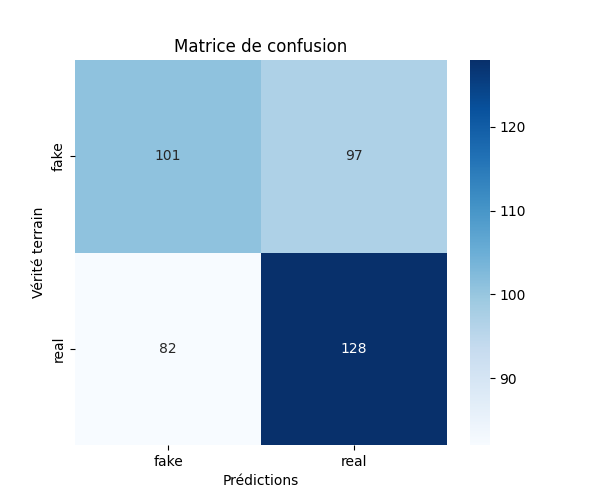
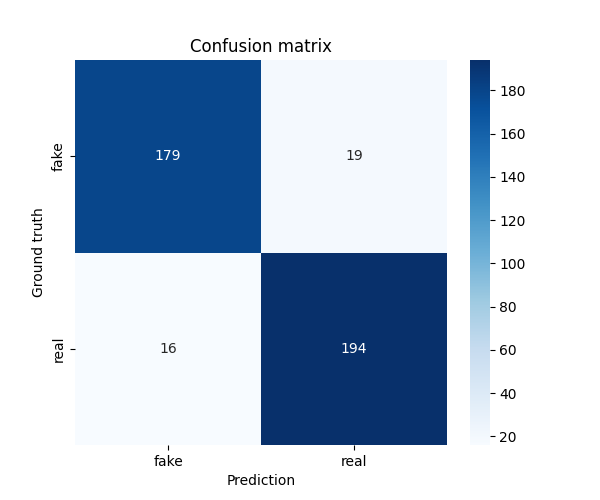
Correct evaluation problem

diff --git a/app/app.py b/app/app.py
@@ -15,11 +15,29 @@ app = Flask(__name__)
 
 MODEL_PATH = os.path.join(os.path.dirname(os.path.dirname(__file__)), os.path.join('models', 'model.h5'))
 CLASS_NAMES = ["fake", "real"]
-upload_folder = './uploads'
-metrics_folder = "./metrics"
-os.makedirs(metrics_folder, exist_ok=True)
+UPLOAD_FOLDER = "./uploads"
+METRICS_FOLDER = "./metrics"
+os.makedirs(METRICS_FOLDER, exist_ok=True)
+#define model variable
+model = ''
+# Charge the data set
+train_data, test_data = load_dataset(os.path.join(os.path.dirname(os.path.dirname(__file__)), 'dataset'), img_size=(600, 600))
 
-def predict_image(model, image_path, img_size=(600, 600)):
+if os.path.exists(MODEL_PATH):
+    # Use the model if already existing
+    print(f"Existing model found in {MODEL_PATH}. Launching...")
+    model = load_model(MODEL_PATH)
+else:
+    # Create the model
+    model = create_model(input_shape=(600, 600, 3))
+
+    # Train the model
+    history = train_model(model, train_data, epochs=10)
+
+    # Evaluate the model
+    evaluate_model(model, test_data, history)
+
+def predict_image(image_path, img_size=(600, 600)):
     # Charge the image and preprocess
     img = load_img(image_path, target_size=img_size)
     img_array = img_to_array(img)  # Convert in numpy
@@ -32,23 +50,6 @@ def predict_image(model, image_path, img_size=(600, 600)):
     confidence = predictions[0][predicted_class]  # Confidence
 
     return CLASS_NAMES[predicted_class], confidence
-
-if os.path.exists(MODEL_PATH):
-    # Use the model if already existing
-    print(f"Existing model found in {MODEL_PATH}. Launching...")
-    model = load_model(MODEL_PATH)
-else:
-    # Charge the data set
-    train_data, test_data = load_dataset(os.path.join(os.path.dirname(os.path.dirname(__file__)), 'dataset'), img_size=(600, 600))
-
-    # Create the model
-    model = create_model(input_shape=(600, 600, 3))
-
-    # Train the model
-    history = train_model(model, train_data, epochs=10)
-
-    # Evaluate the model
-    evaluate_model(model, test_data, history)
 
 @app.route('/')
 def hello():
@@ -65,12 +66,12 @@ def upload_file():
         return jsonify({"error": "File with no name"}), 400
 
     # Save the file in the temp upload directory
-    os.makedirs(upload_folder, exist_ok=True)
-    file_path = os.path.join(upload_folder, file.filename)
+    os.makedirs(UPLOAD_FOLDER, exist_ok=True)
+    file_path = os.path.join(UPLOAD_FOLDER, file.filename)
     file.save(file_path)
 
     if os.path.exists(file_path):
-        predicted_class, confidence = predict_image(model, file_path)
+        predicted_class, confidence = predict_image(file_path)
         print(f"predicted class : {predicted_class} with confidence {confidence:.2f}")
         return jsonify({"message": f"File {file.filename} save with success. predicted class : {predicted_class} with confidence {confidence:.2f}."}), 200
     else:
@@ -80,16 +81,9 @@ def upload_file():
 @app.route('/evaluate', methods=['GET'])
 def evaluate_model_api():
     if not os.path.exists(MODEL_PATH):
-        return jsonify({"error": "Le modèle n'existe pas. Veuillez entraîner un modèle avant d'évaluer."}), 400
+        return jsonify({"error": "Model doesn't exist in the directory."}), 400
 
-    # Charger le modèle
-    model = load_model(MODEL_PATH)
-    print("Modèle chargé avec succès.")
-
-    # Charger les données de test
-    _, test_data = load_dataset(os.path.join(os.path.dirname(os.path.dirname(__file__)), 'dataset'))
-
-    # Séparer les images et les labels
+    # Separe labels
     X_test = []
     y_test = []
 
@@ -100,36 +94,36 @@ def evaluate_model_api():
     X_test = np.concatenate(X_test, axis=0)
     y_test = np.concatenate(y_test, axis=0)
 
-    # Faire les prédictions
+    # Perform prediction
     y_pred_probs = model.predict(X_test)
     y_pred = np.argmax(y_pred_probs, axis=1)
 
-    # Calcul des métriques
+    # Metrics calculation
     report = classification_report(y_test, y_pred, target_names=CLASS_NAMES, output_dict=True)
     confusion = confusion_matrix(y_test, y_pred)
 
-    # Sauvegarder les métriques en fichier JSON
-    report_path = os.path.join(metrics_folder, "classification_report.json")
+    # Save metrics into a JSON file
+    report_path = os.path.join(METRICS_FOLDER, "classification_report.json")
     with open(report_path, "w") as f:
         import json
         json.dump(report, f, indent=4)
 
-    print("Rapport de classification sauvegardé.")
+    print("Classification report saved.")
 
-    # Générer la matrice de confusion
+    # Generate confusion matrix
     plt.figure(figsize=(6, 5))
     sns.heatmap(confusion, annot=True, fmt="d", cmap="Blues", xticklabels=CLASS_NAMES, yticklabels=CLASS_NAMES)
-    plt.xlabel("Prédictions")
-    plt.ylabel("Vérité terrain")
-    plt.title("Matrice de confusion")
-    confusion_path = os.path.join(metrics_folder, "confusion_matrix.png")
+    plt.xlabel("Prediction")
+    plt.ylabel("Ground truth")
+    plt.title("Confusion matrix")
+    confusion_path = os.path.join(METRICS_FOLDER, "confusion_matrix.png")
     plt.savefig(confusion_path)
     plt.close()
 
-    print("Matrice de confusion générée et sauvegardée.")
+    print("Confusion matrix generated and saved.")
 
-    # Générer la courbe ROC
-    fpr, tpr, _ = roc_curve(y_test, y_pred_probs[:, 1])  # Probabilité de la classe "real"
+    # Generate ROC curve
+    fpr, tpr, _ = roc_curve(y_test, y_pred_probs[:, 1])  # "real" class prob
     roc_auc = auc(fpr, tpr)
 
     plt.figure(figsize=(6, 5))
@@ -139,14 +133,14 @@ def evaluate_model_api():
     plt.ylabel("True Positive Rate")
     plt.title("Receiver Operating Characteristic (ROC) Curve")
     plt.legend(loc="lower right")
-    roc_curve_path = os.path.join(metrics_folder, "roc_curve.png")
+    roc_curve_path = os.path.join(METRICS_FOLDER, "roc_curve.png")
     plt.savefig(roc_curve_path)
     plt.close()
 
-    print("Courbe ROC générée et sauvegardée.")
+    print("ROC curve generated and saved.")
 
     return jsonify({
-        "message": "Évaluation du modèle complétée avec succès.",
+        "message": "Model evaluation completed successfully.",
         "classification_report": report_path,
         "confusion_matrix": confusion_path,
         "roc_curve": roc_curve_path
@@ -155,9 +149,9 @@ def evaluate_model_api():
 @app.route('/delete', methods=['DELETE'])
 def delete_directory():
     try:
-        if os.path.exists(upload_folder):
+        if os.path.exists(UPLOAD_FOLDER):
             # Delete the directory and its content
-            shutil.rmtree(upload_folder)
+            shutil.rmtree(UPLOAD_FOLDER)
             return jsonify({"message": "Folder delete with success."}), 200
         else:
             return jsonify({"message": "The folder doesn't exist."}), 404

diff --git a/app/src/data_loader.py b/app/src/data_loader.py
@@ -1,4 +1,5 @@
 import tensorflow as tf
+import numpy as np
 from tensorflow.keras.utils import image_dataset_from_directory
 
 
@@ -16,7 +17,7 @@ def load_dataset(dataset_path, img_size=(600, 600), batch_size=32):
         dataset_path,
         validation_split=0.2,
         subset="validation",
-        seed=123,
+        seed= np.random.randint(0, 10000),
         image_size=img_size,
         batch_size=batch_size
     )
